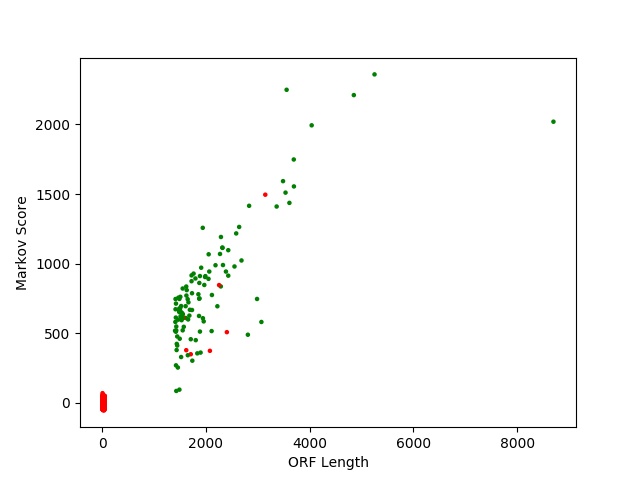
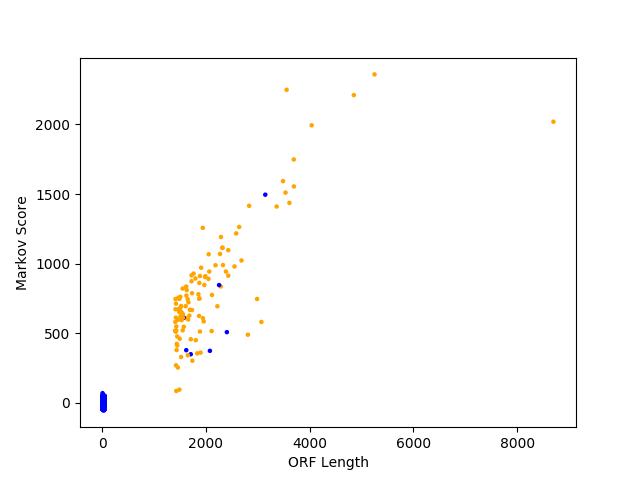
updated results, incomplete flashbulb

Changed region(s): [[0.25, 0.4688, 0.375, 0.7812], [0.1562, 0.8125, 0.1875, 0.875], [0.4375, 0.375, 0.4688, 0.4062]]

diff --git a/hw4/src/main.py b/hw4/src/main.py
@@ -3,11 +3,10 @@
 
 import collections
 import itertools as it
-import math
 import matplotlib.pyplot as plt
 import numpy as np
 import pandas as pd
-import time as time
+import statistics
 from sklearn import metrics
 from tabulate import tabulate
 
@@ -99,16 +98,14 @@ def get_AAGxyT_counts(count_list):
   kmer_counts, kmer_plusone_counts, kmer_start_counts = count_list
 
   result = pd.DataFrame(columns=c.nucleotides, index=c.nucleotides)
-  probs = pd.DataFrame(columns=c.nucleotides, index=c.nucleotides)
 
   for i in c.nucleotides:
     for j in c.nucleotides:
       pre = "AAG" + i + j
       comb = pre + "T"
-      result[j][i] = kmer_plusone_counts[comb]
-      probs[j][i] = result[j][i] / kmer_counts[pre]
+      result[j][i] = kmer_plusone_counts[comb] / kmer_counts[pre]
 
-  return result, probs
+  return result
 
 def plot_roc(key_map, color):
   print("plotting " + color)
@@ -130,11 +127,24 @@ def plot_roc(key_map, color):
 
   return auc
 
-def plot_flashbulb(roc_flashbulb_list, pos_color, neg_color):
-  df = pd.DataFrame(roc_flashbulb_list, columns=["length", "score", "match"])
-  colors = [pos_color if match else neg_color for match in df["match"]]
+def plot_flashbulb(master_flashbulb_list, long_flashbulb_list, short_flashbulb_list, pos_color, neg_color):
+  long_df = pd.DataFrame(long_flashbulb_list, columns=[
+                         "length", "score", "match"])
+  short_df = pd.DataFrame(short_flashbulb_list, columns=[
+                          "length", "score", "match"])
 
-  plt.scatter(df["length"], df["score"], c=colors, s=5)
+  long_colors = [
+      pos_color if match else neg_color for match in long_df["match"]]
+  short_colors = [
+      pos_color if match else neg_color for match in short_df["match"]]
+
+  plt.scatter(long_df["length"], long_df["score"], c=long_colors, s=5)
+  plt.scatter(short_df["length"], short_df["score"], c=short_colors, s=5)
+
+  median_long_length, median_long_score = statistics.median(
+      long_df["length"], long_df["score"])
+  median_short_length, median_short_score = statistics.median(
+      short_df["length"], short_df["score"])
 
 
 def main():
@@ -175,13 +185,12 @@ def main():
     short_orf_locs += short_orf_list[i].orf_locs
     short_orf_seqs += short_orf_list[i].orf_list
 
-  short_total_count = len(short_orf_locs)
-  short_orf_locs = [item for item in short_orf_locs if item[1] - item[0] > 3]
-
   trusted_orf_seq_map = {key[0] : value for key, value in zip(
       trusted_orf_locs, trusted_orf_seqs)}
   short_orf_seq_map = {key[0] : value for key, value in zip(
       short_orf_locs, short_orf_seqs)}
+  master_orf_seq_map = {key[0]: value for key, value in zip(
+      master_orf_locs, master_orf_seqs)}
 
   trusted_orf_loc_map = {loc[0]: loc for loc in trusted_orf_locs}
   short_orf_loc_map = {loc[0]: loc for loc in short_orf_locs}
@@ -227,15 +236,12 @@ def main():
 
   overall_output.write("\ntotal orfs: {}\n".format(len(master_orf_locs)))
   overall_output.write("long orfs: {}\n".format(len(trusted_orf_locs)))
-  overall_output.write("short orfs: {}\n".format(short_total_count))
+  overall_output.write("short orfs: {}\n".format(len(short_orf_locs)))
   
   overall_output.write("\nsimple plus strand CDSs: {}\n".format(len(ginfo_list)))
 
-  p_counts, p_probs = get_AAGxyT_counts(trusted_list)
-  q_counts, q_probs = get_AAGxyT_counts(bg_list)
-
-  overall_output.write("\np_counts: \n" + str(p_counts) + "\n")
-  overall_output.write("\nq_counts: \n" + str(q_counts) + "\n")
+  p_probs = get_AAGxyT_counts(trusted_list)
+  q_probs = get_AAGxyT_counts(bg_list)
 
   overall_output.write("\np_probs: \n" + str(p_probs) + "\n")
   overall_output.write("\nq_probs: \n" + str(q_probs) + "\n")
@@ -270,40 +276,71 @@ def main():
 
   roc_length_map = []
   roc_score_map = []
-  roc_flashbulb_list = []
+
+  long_flashbulb_list = []
+  short_flashbulb_list = []
 
   trusted_keys = trusted_orf_seq_map.keys()
   short_keys = short_orf_seq_map.keys()
 
-  for start in sorted(trusted_orf_seq_map.keys()):
+  for start in trusted_keys:
     loc = trusted_orf_loc_map[start]
-    end = loc[1] + 4
     length = loc[1] - loc[0] + 1
     seq = trusted_orf_seq_map[start]
     score = calculate_score(loc, seq, trusted_list, bg_list)
+    end = loc[1] + 4
     match = end in ginfo_ends
 
     roc_length_map.append([length, match])
     roc_score_map.append([score, match])
-    roc_flashbulb_list.append([length, score, match])
+    long_flashbulb_list.append([length, score, match])
 
-  for start in sorted(short_orf_seq_map.keys()):
+  for start in short_keys:
     loc = short_orf_loc_map[start]
-    end = loc[1] + 4
     length = loc[1] - loc[0] + 1
+    if length < 4:
+      continue
     seq = short_orf_seq_map[start]
     score = calculate_score(loc, seq, trusted_list, bg_list)
+    end = loc[1] + 4
     match = end in ginfo_ends
 
     roc_length_map.append([length, match])
     roc_score_map.append([score, match])
-    roc_flashbulb_list.append([length, score, match])
+    short_flashbulb_list.append([length, score, match])
+
+  print("plotting flashbulb")
+
+  master_length_map = []
+  master_score_map = []
+  master_flashbulb_list = []
+
+  for loc in master_orf_locs:
+    length = loc[1] - loc[0] + 1
+    if length < 4:
+      continue
+    seq = master_orf_seqs[start]
+    score = calculate_score(loc, seq, trusted_list, bg_list)
+    end = loc[1] + 4
+    match = end in ginfo_ends
+
+    master_length_map.append([length, match])
+    master_score_map.append([score, match])
+    master_flashbulb_list.append([length, score, match])
+
+  plot_flashbulb(master_flashbulb_list, long_flashbulb_list, short_flashbulb_list, "orange", "blue")
+  plt.ylabel("Markov Score")
+  plt.xlabel("ORF Length")
+  plt.savefig(c.results_folder + "flashbulb" + c.png_exten)
+  plt.close()
 
   length_auc = plot_roc(roc_length_map, "red")
   score_auc = plot_roc(roc_score_map, "green")
+  # flashbulb_auc = plot_roc(master_map, "blue")
 
   overall_output.write("\nlength_auc: {}\n".format(length_auc))
   overall_output.write("\nscore_auc: {}\n".format(score_auc))
+  # overall_output.write("\nflashbulb_auc: {}\n".format(flashbulb_auc))
   overall_output.close()
 
   plt.ylabel("True Positive Rate")
@@ -314,13 +351,6 @@ def main():
   plt.xlim(-0.10, 0.10)
   plt.ylim(0.85, 1.05)
   plt.savefig(c.results_folder + "roc_zoom" + c.png_exten)
-  plt.close()
-
-  print("plotting flashbulb")
-  plot_flashbulb(roc_flashbulb_list, "green", "red")
-  plt.ylabel("Markov Score")
-  plt.xlabel("ORF Length")
-  plt.savefig(c.results_folder + "flashbulb" + c.png_exten)
   plt.close()
 
   print("done")
